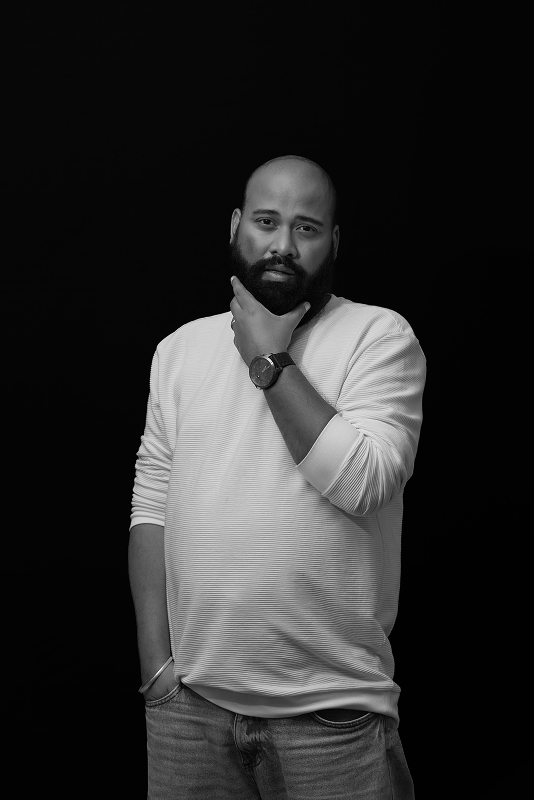
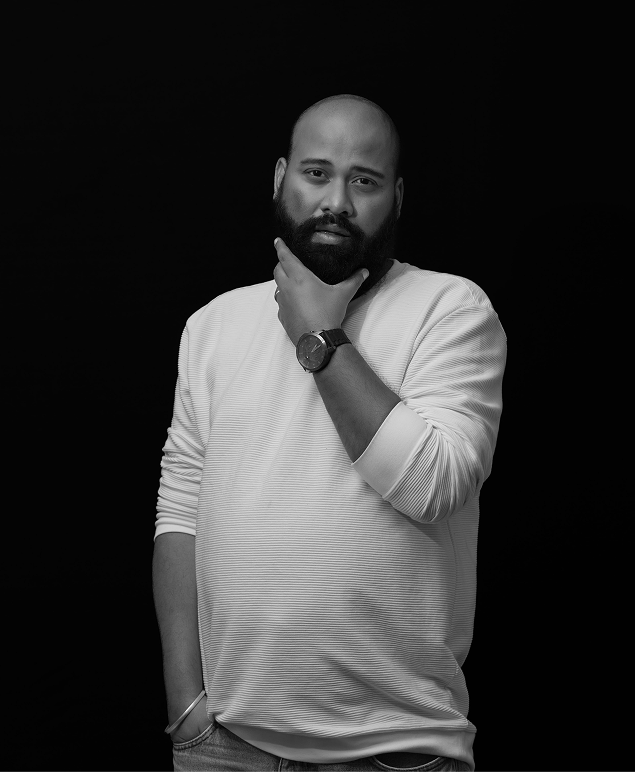
Update homepage content and introduce AnimatedLink component, Update Header component toggle and adjust image.

Changed region(s): [[0.0, 0.0, 1.0, 1.0]]

diff --git a/app/components/Header.tsx b/app/components/Header.tsx
@@ -1,6 +1,8 @@
 'use client';
 
-import { useState } from 'react';
+import { useState, useRef } from 'react';
+import { gsap } from 'gsap';
+import { AnimatedLink } from './AnimatedLink';
 
 interface HeaderProps {
     isDarkMode: boolean;
@@ -8,31 +10,81 @@ interface HeaderProps {
 }
 
 export default function Header({ isDarkMode, toggleTheme }: HeaderProps) {
-    const [selectedItem, setSelectedItem] = useState<'workshop' | 'agency' | 'store'>('workshop');
+    const [selectedItem, setSelectedItem] = useState<'home' | 'workshop' | 'agency' | 'store'>('home');
+    const circleRef = useRef<HTMLDivElement>(null);
 
     const navItems = [
+        { id: 'home' as const, label: 'home' },
         { id: 'workshop' as const, label: 'workshop' },
         { id: 'agency' as const, label: 'agency' },
         { id: 'store' as const, label: 'store' },
     ];
 
+    const handleThemeToggle = () => {
+        if (!circleRef.current) return;
+
+        const circle = circleRef.current;
+        const rect = circle.getBoundingClientRect();
+
+        // Create overlay element positioned at the circle
+        const overlay = document.createElement('div');
+        overlay.style.position = 'fixed';
+        overlay.style.top = `${rect.top + rect.height / 2}px`;
+        overlay.style.left = `${rect.left + rect.width / 2}px`;
+        overlay.style.width = `${rect.width}px`;
+        overlay.style.height = `${rect.height}px`;
+        overlay.style.backgroundColor = isDarkMode ? '#ffffff' : '#000000';
+        overlay.style.borderRadius = '50%';
+        overlay.style.zIndex = '9999';
+        overlay.style.pointerEvents = 'none';
+        overlay.style.transform = 'translate(-50%, -50%)';
+
+        document.body.appendChild(overlay);
+
+        // Calculate scale needed to cover entire screen
+        const maxDimension = Math.max(window.innerWidth, window.innerHeight);
+        const scale = (maxDimension * 3) / rect.width;
+
+        // Fluid GSAP animation
+        gsap.timeline()
+            .to(overlay, {
+                scale: scale,
+                duration: 2.4,
+                ease: "power4.inOut"
+            })
+            .call(() => {
+                // Toggle theme in the middle of animation
+                toggleTheme();
+            }, [], 1.2)
+            .to(overlay, {
+                opacity: 0,
+                duration: 0.8,
+                ease: "power4.inOut",
+                onComplete: () => {
+                    document.body.removeChild(overlay);
+                }
+            }, 1.6);
+    };
+
     return (
         <header className="flex items-center justify-between px-6 md:px-24 py-8">
-            <div className="flex items-center space-x-2">
-                <div className={`w-2 h-2 rounded-full ${isDarkMode ? 'bg-white' : 'bg-black'}`}></div>
-                <span className="font-medium text-lg">priyaranjan</span>
+            <div className="flex items-center space-x-1.5">
+                <div className={`w-3 h-3 rounded-full ${isDarkMode ? 'bg-white' : 'bg-black'}`}></div>
+                <span className="font-bold text-lg">priya<span className="font-light">ranjan</span></span>
             </div>
 
             <div className="hidden md:flex flex-col items-center space-y-2">
                 <div className="flex items-center space-x-6">
                     {navItems.map((item) => (
-                        <div key={item.id} className="flex flex-col items-center space-y-1">
-                            <button
-                                onClick={() => setSelectedItem(item.id)}
-                                className="text-sm font-medium transition-colors hover:opacity-70"
-                            >
-                                {item.label}
-                            </button>
+                        <div key={item.id} className="flex flex-col items-center">
+                            <div onClick={() => setSelectedItem(item.id)}>
+                                <AnimatedLink
+                                    href={`/${item.id}`}
+                                    className={`text-sm font-medium transition-colors ${isDarkMode ? 'text-white/60' : 'text-black/60'}`}
+                                >
+                                    {item.label}
+                                </AnimatedLink>
+                            </div>
                             <div
                                 className={`w-1 h-1 rounded-full transition-opacity ${selectedItem === item.id
                                     ? isDarkMode ? 'bg-white opacity-100' : 'bg-black opacity-100'
@@ -44,17 +96,27 @@ export default function Header({ isDarkMode, toggleTheme }: HeaderProps) {
                 </div>
             </div>
 
-            {/* Right side - Theme toggle and 4 circles */}
+            {/* Right side - Theme toggle with background circle and 4 circles */}
             <div className="flex items-center space-x-4">
-                <button
-                    onClick={toggleTheme}
-                    className={`px-4 py-2 rounded-full text-sm font-medium transition-colors cursor-pointer ${isDarkMode
-                        ? 'bg-gray-800 text-white hover:bg-gray-700'
-                        : 'bg-gray-100 text-gray-900 hover:bg-gray-200'
-                        }`}
-                >
-                    {isDarkMode ? 'light mode' : 'dark mode'}
-                </button>
+                {/* Theme toggle button with background circle */}
+                <div className="relative">
+                    {/* Background circle - same height as button */}
+                    <div
+                        ref={circleRef}
+                        className={`absolute inset-0 rounded-full ${isDarkMode ? 'bg-white' : 'bg-black'}`}
+                        style={{ aspectRatio: '1', left: '0', right: 'auto', width: '40px' }}
+                    ></div>
+
+                    <button
+                        onClick={handleThemeToggle}
+                        className={`relative z-10 px-4 py-2 rounded-full text-sm font-medium transition-colors cursor-pointer ${isDarkMode
+                            ? 'bg-white text-black'
+                            : 'bg-black text-white'
+                            }`}
+                    >
+                        {isDarkMode ? 'light mode' : 'dark mode'}
+                    </button>
+                </div>
 
                 {/* 2x2 circle grid */}
                 <button className="p-2">
@@ -68,4 +130,4 @@ export default function Header({ isDarkMode, toggleTheme }: HeaderProps) {
             </div>
         </header>
     );
-} 
+}

diff --git a/app/page.tsx b/app/page.tsx
@@ -3,6 +3,7 @@
 import { useState, useEffect } from 'react';
 import Image from 'next/image';
 import Header from './components/Header';
+import { AnimatedLink } from './components/AnimatedLink';
 
 export default function Home() {
   const [isDarkMode, setIsDarkMode] = useState(false);
@@ -32,47 +33,65 @@ export default function Home() {
             <div className="space-y-4 max-w-lg">
               {isDarkMode ? (
                 <div className="space-y-2">
-                  <h1 className="text-base md:text-lg font-light leading-tight">
-                    Hi,
-                    I am Priyaranjan and I am lazy af.
-
-                    I&apos;ve poured my soul into building brands, campaigns, and
-                    designs for others... but when it comes to designing my
-                    own portfolio?
-
-                    But don&apos;t worry, I&apos;ll get there. Probably. Eventually.
-                    Maybe.
+                  <h1 className="text-base md:text-md font-light leading-tight">
+                    Hi, I’m Priyaranjan, and I’m lazy.
+                    <br />
+                    Like most creatives, I can build bold brands, craft killer strategies, and fight 12 feedback rounds with grace... but designing my own portfolio? That’s where I draw the line.
+                    <br />
+                    <br />
+                    This website is still under construction, because I’m either too busy, too tired, or just lying flat on the floor staring at my ceiling fan.
+                    <br />
+                    <br />
+                    One day, it’ll be great. Today’s not that day.
+                    But hey, you came all this way, so thanks for that.
                   </h1>
                 </div>
               ) : (
                 <div className="space-y-4">
-                  <h1 className="text-base md:text-lg font-light leading-tight">
-                    Hi, welcome to my portfolio. I&apos;m a hands-on Digital Creative Director
-                    focused on crafting innovative digital experiences. Dive in to explore my
-                    work, my process, and how I bring ideas to life through collaboration and
-                    creativity.
+                  <h1 className="text-base md:text-md font-light leading-tight">
+                    Hi, I’m Priyaranjan.
+                    <br />
+                    I’m a creative director and brand strategist with over a decade of experience helping brands find clarity, purpose, and visual identity.
+                    <br />
+                    I’ve worked across industries, led campaigns, built systems, and crafted stories that connect, always driven by clarity, culture, and intention.
+                    <br />
+                    <br />
+                    This website is still under construction. I’m taking my time, not because I have to, but because I want this to reflect the same depth and thought I put into every brand I work on.
+                    <br />
+                    Thanks for stopping by. Something meaningful is on the way.
+
+
                   </h1>
                 </div>
               )}
 
-              <div className="flex items-center space-x-3">
+              <div className="flex items-center space-x-2 mt-6">
                 <div className={`w-3 h-3 rounded-full ${isDarkMode ? 'bg-white' : 'bg-black'
                   }`}></div>
-                <button className="text-base md:text-lg font-medium leading-tight hover:underline transition-all duration-200 cursor-pointer">
+                <button className="text-base md:text-md font-medium leading-tight hover:underline transition-all duration-200 cursor-pointer">
                   See My Works
                 </button>
               </div>
               <div className="mt-20">
-                <div className="flex space-x-4 text-xs md:text-sm text-gray-500">
-                  <a href="http://instagram.com/priyaranjan.design/" className="hover:text-current transition-colors">
+                <div className="flex space-x-4 text-xs md:text-sm">
+                  <AnimatedLink
+                    href="http://instagram.com/priyaranjan.design/"
+                    className={`${isDarkMode ? 'text-gray-400' : 'text-gray-500'}`}
+                  >
                     Instagram
-                  </a>
-                  <a href="https://www.linkedin.com/in/bypriyaranjan/" className="hover:text-current transition-colors">
+                  </AnimatedLink>
+                  <AnimatedLink
+                    href="https://www.linkedin.com/in/bypriyaranjan/"
+                    className={`${isDarkMode ? 'text-gray-400' : 'text-gray-500'}`}
+                  >
                     LinkedIn
-                  </a>
-                  <a href="https://wa.me/919124999144" className="hover:text-current transition-colors">
+                  </AnimatedLink>
+                  <AnimatedLink
+                    href="https://wa.me/919124999144"
+                    className={`${isDarkMode ? 'text-gray-400' : 'text-gray-500'}`}
+                  >
                     WhatsApp
-                  </a>
+                  </AnimatedLink>
                 </div>
               </div>
             </div>
@@ -82,8 +101,8 @@ export default function Home() {
                 <Image
                   src={isDarkMode ? "/images/hero-dark.png" : "/images/hero-light.png"}
                   alt="Priyaranjan portrait"
-                  height={400}
-                  width={400}
+                  height={480}
+                  width={480}
                   className="max-w-full h-auto object-contain"
                 />
               </div>

diff --git a/app/components/AnimatedLink.tsx b/app/components/AnimatedLink.tsx
@@ -1,0 +1,28 @@
+import React from "react";
+import Link from "next/link";
+
+interface AnimatedLinkProps {
+    href: string;
+    children: React.ReactNode;
+    className?: string;
+}
+
+export const AnimatedLink: React.FC<AnimatedLinkProps> = ({
+    href,
+    children,
+    className,
+}) => {
+    return (
+        <Link
+            href={href}
+            className={`group relative overflow-hidden text-sm inline-block ${className}`}
+        >
+            <span className="block transition duration-500 ease-out group-hover:-translate-y-[120%] opacity-80">
+                {children}
+            </span>
+            <span className="absolute left-0 top-0 block translate-y-[120%] transition duration-500 ease-out group-hover:translate-y-0">
+                {children}
+            </span>
+        </Link>
+    );
+};
